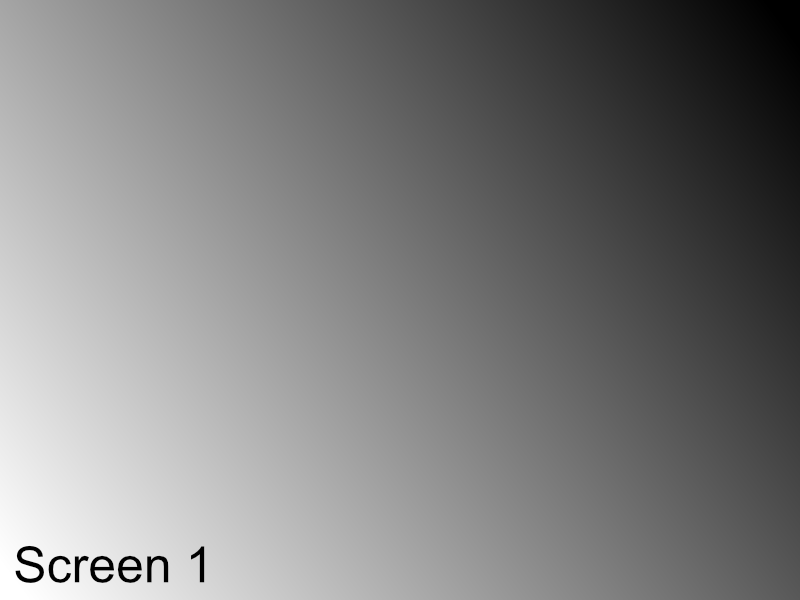
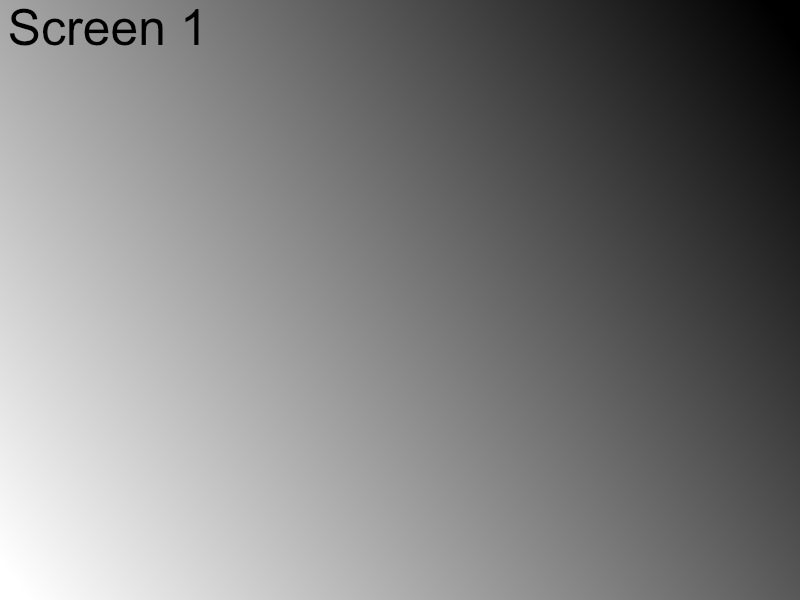
Update checker! update readme a little, update MenuPanel

Changed region(s): [[0.0, 0.0, 0.25, 0.09], [0.0, 0.9, 0.2188, 0.99], [0.2188, 0.9, 0.2812, 0.96]]

diff --git a/src/MenuPanel.java b/src/MenuPanel.java
@@ -1,30 +1,36 @@
 import sound.SoundManager;
+import updater.UpdateChecker;
 
 import javax.swing.*;
 import java.awt.*;
 import java.awt.event.*;
+import java.net.URI;
 
 public class MenuPanel extends JPanel implements ActionListener {
 
     private final PanelManager manager;
     private final Image bgSprite;
+
     private final JButton button = new JButton("Start Game!");
+    private final JLabel versionNumberLabel = new JLabel(UpdateChecker.getVersion());
+    private final JButton updateAvailableButton = new JButton("Update available");
 
     public MenuPanel(PanelManager manager){
         this.manager = manager;
 
         setBackground(Color.black);
+        setLayout(new BorderLayout());
+
+        // I don't understand layouts...........
+
+        //---------
         bgSprite = new ImageIcon(getClass().getResource("LSGameStartScreen.png")).getImage();
         ImageIcon startButtonSprite = new ImageIcon(getClass().getResource("Untitled-2.png"));
 
-        setLayout(new GridBagLayout());
-
+        //---------
         button.setPreferredSize(new Dimension(200, 60));
         button.setIcon(startButtonSprite);
-        add(button);
         button.addActionListener(this);
-
-
         button.addMouseListener(new MouseAdapter() {
             @Override
             public void mouseEntered(MouseEvent e) {
@@ -36,20 +42,81 @@ public class MenuPanel extends JPanel implements ActionListener {
                 System.out.println("mouse exited");
             }
         });
+
+        //---------
+        updateAvailableButton.setPreferredSize(new Dimension(140, 25));
+        updateAvailableButton.setVisible(false);
+        updateAvailableButton.addActionListener(this);
+
+        versionNumberLabel.setVerticalAlignment(SwingConstants.BOTTOM);
+
+        //---------
+        JPanel centerPanel = new JPanel(new GridBagLayout());
+        centerPanel.setOpaque(false);
+        centerPanel.add(button);
+
+        //---------
+        JPanel updateButtonWrapper = new JPanel(new FlowLayout(FlowLayout.CENTER, 0, 0));
+        updateButtonWrapper.setOpaque(false);
+
+        updateButtonWrapper.setPreferredSize(new Dimension(140, 25));
+        updateButtonWrapper.add(updateAvailableButton);
+
+        JPanel southPanel = new JPanel(new BorderLayout());
+        southPanel.setOpaque(false);
+        southPanel.setBorder(BorderFactory.createEmptyBorder(0, 10, 10, 10));
+        southPanel.add(versionNumberLabel, BorderLayout.WEST);
+        southPanel.add(updateButtonWrapper, BorderLayout.CENTER);
+
+        //---------
+        add(centerPanel, BorderLayout.CENTER);
+        add(southPanel, BorderLayout.SOUTH);
+
+        checkUpdatesAsync();
+    }
+
+    private void checkUpdatesAsync(){
+        // creating new backgrounds thread
+        // If we don't do this, the app will remain pending until we receive a response.
+        new Thread(() -> {
+            try {
+                String currentVersion = UpdateChecker.getVersion();
+                String latestVersion = UpdateChecker.fetchLatestVersion();
+
+                System.out.println("App version is: " + currentVersion);
+                System.out.println("Latest GitHub version is: " + latestVersion);
+
+                //comparison
+                if(UpdateChecker.isUpdateAvailable(currentVersion, latestVersion)){
+                    //Execute the code if an update is available
+                    SwingUtilities.invokeLater(() -> updateAvailableButton.setVisible(true));
+                    System.out.println("Update button is shown");
+                }
+            } catch (Exception e){
+                System.err.println("Failed to check update: " + e.getMessage());
+            }
+        }).start(); //start Thread
     }
 
     @Override
     public void paintComponent(Graphics g){
         super.paintComponent(g);
         g.drawImage(bgSprite, 0, 0, getWidth(), getHeight(), this);
-
     }
 
     @Override
     public void actionPerformed(ActionEvent e) {
-        if(e.getSource() == button){
-            manager.show("gameSelect");
+        if(e.getSource() == button){ manager.show("gameSelect"); }
+        if(e.getSource() == updateAvailableButton){ openWebPage(); }
+    }
 
+    private void openWebPage(){
+        try{
+            if(Desktop.isDesktopSupported() && Desktop.getDesktop().isSupported(Desktop.Action.BROWSE)){
+                Desktop.getDesktop().browse(new URI("https://github.com/Tsuzuito/LuckyStarGame/releases"));
+            }
+        } catch (Exception e){
+            System.err.println("Failed to open browser: " + e.getMessage());
         }
     }
 }

diff --git a/src/updater/UpdateChecker.java b/src/updater/UpdateChecker.java
@@ -1,9 +1,81 @@
 package updater;
 
+import java.net.URI;
+import java.net.http.HttpClient;
+import java.net.http.HttpRequest;
+import java.net.http.HttpResponse;
+import java.time.Duration;
+
+import com.google.gson.JsonObject;
+import com.google.gson.JsonParser;
+
 public class UpdateChecker {
-    private static final String CURRENT_VERSION = "0.1.0";
+    private static final String CURRENT_VERSION = "0.1.1";
+    private static final String GITHUB_API_URL = "https://api.github.com/repos/Tsuzuito/LuckyStarGame/releases/latest";
 
-    public static void UpdateChecker(){
+    public static String getVersion(){ return CURRENT_VERSION; }
 
+    //Get GitHub json response
+    private static String fetchLatestReleaseJSON() throws Exception{
+        //Client browser (kinda)
+        HttpClient client = HttpClient.newBuilder()
+                .connectTimeout(Duration.ofSeconds(5))
+                .build();
+
+        HttpRequest request = HttpRequest.newBuilder() // setup object
+                .uri(URI.create(GITHUB_API_URL)) // set URL
+                .header("User-Agent", "LuckyStarGame-Updater") // Signature of the app making the request
+                .timeout(Duration.ofSeconds(5)) // timeout
+                .GET() // we need to just read info (type of request)
+                .build(); // finish. build object
+
+        //send and get response. response is parsed to a string
+        HttpResponse<String> response = client.send(request, HttpResponse.BodyHandlers.ofString());
+
+        //code 200 is success.
+        if(response.statusCode() == 200){
+            return response.body();
+        } else {
+            throw new RuntimeException("GitHub request error. Response code: " + response.statusCode());
+        }
+    }
+
+    //remove everything else, except tag_name
+    public static String fetchLatestVersion() throws Exception{
+
+        //get json response from GitHub as a String
+        String rawJsonString = fetchLatestReleaseJSON();
+
+        //Parse String back to JSON (Gson JsonObject)
+        JsonObject jsonObject = JsonParser.parseString(rawJsonString).getAsJsonObject();
+
+        //convert tag_name to a string
+        String latestVersion = jsonObject.get("tag_name").getAsString();
+
+        //Remove any unnecessary characters from the response (if any)
+        return latestVersion.replaceAll("[^0-9.]", "");
+    }
+
+    public static boolean isUpdateAvailable(String currentVersion, String latestVersion){
+        String[] currentParts = currentVersion.split("\\.");
+        String[] latestParts = latestVersion.split("\\.");
+
+        int maxLength = Math.max(currentParts.length, latestParts.length);
+
+        for(int i = 0; i < maxLength; i++){
+            int currentPart = i < currentParts.length ? Integer.parseInt(currentParts[i]) : 0;
+            int latestPart = i < latestParts.length ? Integer.parseInt(latestParts[i]) : 0;
+
+            if(latestPart > currentPart){
+                System.out.println("Update is available");
+                return true;
+            } else if (latestPart < currentPart) {
+                System.out.println("Update is not available(Current version is newer)");
+                return false;
+
+            }
+        }
+        System.out.println("You are using the latest version");
+        return false;
     }
 }

diff --git a/src/ScorePanel.java b/src/ScorePanel.java
@@ -5,6 +5,8 @@ import dataSaving.ScoreEntry;
 import javax.swing.*;
 import java.awt.*;
 import java.awt.event.*;
+import java.io.File;
+import java.io.IOException;
 
 public class ScorePanel extends JPanel implements ActionListener {
 
@@ -14,6 +16,7 @@ public class ScorePanel extends JPanel implements ActionListener {
 
     private final JButton backButton = new JButton("Back");
     private final JButton deleteData = new JButton("Delete Data");
+    private final JButton opendatafolder = new JButton("folderdata");
 
     //snake
     private JList<String> snakeScoreHistory = new JList<>();
@@ -52,6 +55,11 @@ public class ScorePanel extends JPanel implements ActionListener {
         deleteData.setPreferredSize(btnSize);
         deleteData.addActionListener(this);
         rightPanel.add(deleteData);
+
+        //deletelater
+        opendatafolder.setPreferredSize(btnSize);
+        opendatafolder.addActionListener(this);
+//        rightPanel.add(opendatafolder);
 
         topPanel.add(leftPanel, BorderLayout.WEST);
         topPanel.add(rightPanel, BorderLayout.EAST);
@@ -127,8 +135,17 @@ public class ScorePanel extends JPanel implements ActionListener {
 
     @Override
     public void actionPerformed(ActionEvent e) {
-        if(e.getSource()== backButton){ manager.show("gameSelect"); }
-        if(e.getSource()== deleteData){ saveManager.deleteUserData(); updateScoreDisplay();}
+        if(e.getSource() == backButton){ manager.show("gameSelect"); }
+        if(e.getSource() == deleteData){ saveManager.deleteUserData(); updateScoreDisplay();}
+
+        // temp
+        if(e.getSource() == opendatafolder){
+            try {
+                Desktop.getDesktop().open(new File("C:\\Users\\tsuzu\\.luckystar"));
+            } catch (IOException ex) {
+                ex.printStackTrace();
+            }
+        }
 
     }
 }

diff --git a/README.md b/README.md
@@ -1,17 +1,28 @@
 # Lucky Star Game
 
-A small meme game written in Java using Swing for educational purposes. It was inspired by a [funny image](https://github.com/user-attachments/assets/82216d59-5b6c-489f-bb04-72ebf8694a51) I saw somewhere on Telegram. Original project, inspiration: **[BounceRika](https://github.com/Nyuke235/BounceRika)**
+A small meme game written in Java using Swing for educational purposes. It was inspired by a [funny image](https://github.com/user-attachments/assets/82216d59-5b6c-489f-bb04-72ebf8694a51) I saw somewhere on Telegram. Original project, inspiration: [**BounceRika**](https://github.com/Nyuke235/BounceRika)
 
 The program (will) feature 4 mini-games (Snake, Space Invaders, Memory Cards, Paddle Game) in the style of the anime Lucky Star, a scoring and save system, visual and sound design, and more!
 
 The goal of the project is simply to learn something new and make something fun :p
-#
-| Already done | TODO |
-|--|--|
-| Basic snake implementation | Styling and animations |
-| Basic Space Invaders implementation | SFX |
-| Score saving and loading system via JSON | memory card (find matching) game |
-| Sounds (Placeholders) | Paddle game (Line in Bounce Rika) |
-|  | (Maybe) Online leaderboard |
-|  | idk |
-#
+<sup><sub>I'm still learning, and the quality of my code leaves something to be desired<sub><sup>
+
+
+|Already done|TODO|
+|-|-|
+|Basic snake implementation|Styling and animations|
+|Basic Space Invaders implementation|SFX|
+|Score saving and loading system via JSON|memory card (find matching) game|
+|Sounds (Placeholders)|Paddle game (Line in Bounce Rika)|
+|Update Checker|(Maybe) Online leaderboard|
+||idk|
+
+
+## Requirements
+- Java 21 or higher
+- Works on Windows, Linux, MacOS (as long as Java is installed)
+
+## How to run
+```
+java -jar LuckyStarGame.jar
+```
